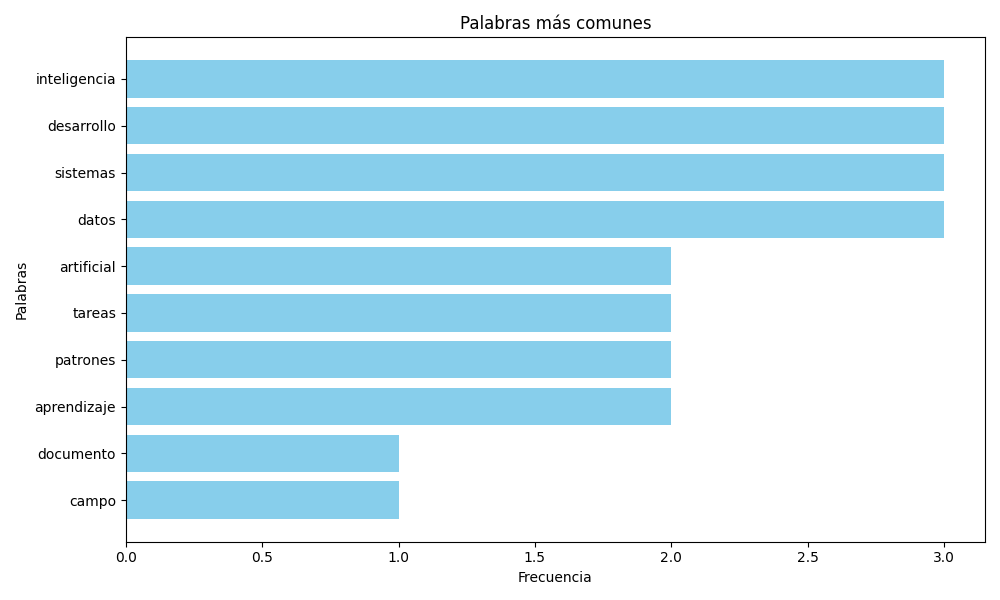
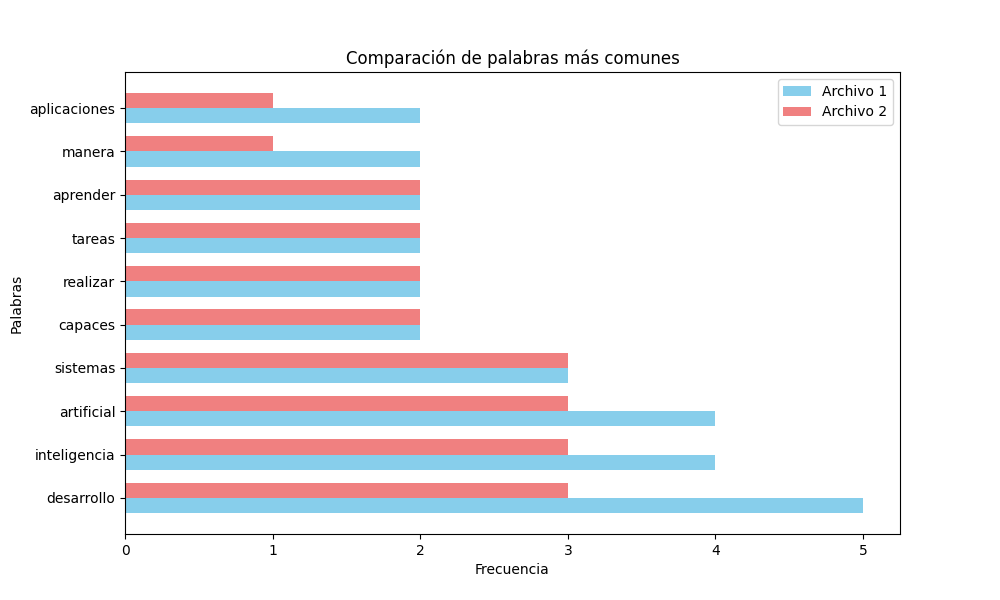
Se modifica grafica para que se vean los datos mas claros

diff --git a/templates/results.html b/templates/results.html
@@ -9,7 +9,7 @@
 </head>
 <body>
     <div class="container">
-        <h1 class="text-center my-4">Resultados del Análisis</h1>
+        <h1 class="text-center my-4">Resultados del Análisis de plagio de archivos</h1>
         <div class="row">
             <div class="col-md-6">
                 <div class="card">

diff --git a/app.py b/app.py
@@ -8,19 +8,16 @@ from collections import Counter
 from flask import Flask, request, render_template, redirect, url_for
 import matplotlib.pyplot as plt
 import matplotlib
-matplotlib.use('Agg') #Se agrega debido a error OSError: [WinError 10038],Una solución común es establecer un backend que no dependa de una interfaz de usuario. Puedes hacer esto configurando matplotlib para usar un backend que no requiera una interfaz de usuario, como el backend Agg.
-
+matplotlib.use('Agg')
 
 app = Flask(__name__)
 
-# Configurar la carpeta de static
 STATIC_FOLDER = 'static'
 if not os.path.exists(STATIC_FOLDER):
     os.makedirs(STATIC_FOLDER)
 
 app.config['STATIC_FOLDER'] = STATIC_FOLDER 
 
-# Función para leer texto de un archivo PDF
 def read_pdf(file_path):
     with open(file_path, 'rb') as file:
         reader = PyPDF2.PdfReader(file)
@@ -29,20 +26,17 @@ def read_pdf(file_path):
             text += page.extract_text()
     return text
 
-# Función para limpiar y tokenizar texto
 def clean_and_tokenize(text):
-    text = re.sub(r'\s+', ' ', text)  # Eliminar espacios en blanco extra
-    text = re.sub(r'[^a-zA-ZáéíóúÁÉÍÓÚñÑ ]', '', text)  # Eliminar caracteres no alfabéticos
+    text = re.sub(r'\s+', ' ', text)
+    text = re.sub(r'[^a-zA-ZáéíóúÁÉÍÓÚñÑ ]', '', text)
     tokens = nltk.word_tokenize(text.lower())
     return tokens
 
-# Función para calcular la riqueza léxica
 def lexical_richness(tokens):
     unique_tokens = set(tokens)
     richness = len(unique_tokens) / len(tokens)
-    return round(richness, 2)  # Limitar a 2 números decimales
+    return round(richness, 2)
 
-# Función para calcular la similitud basada en n-gramas
 def calculate_similarity(text1, text2, n=3):
     ngrams1 = list(ngrams(text1, n))
     ngrams2 = list(ngrams(text2, n))
@@ -53,33 +47,34 @@ def calculate_similarity(text1, text2, n=3):
     total = sum((counter1 | counter2).values())
     
     similarity = intersection / total if total != 0 else 0
-    return round(similarity * 100, 2)  # Regresar como porcentaje y limitar a 2 números decimales
+    return round(similarity * 100, 2)
 
-# Función para generar la gráfica de palabras más comunes
-def generate_word_frequency_chart(tokens, num_words=10):
-    # Filtrar palabras comunes y stopwords
+def generate_word_frequency_chart(tokens1, tokens2, color1='skyblue', color2='lightcoral', num_words=10):
     stop_words = set(stopwords.words('spanish'))
-    filtered_words = [word for word in tokens if word not in stop_words]
+    filtered_words1 = [word for word in tokens1 if word not in stop_words]
+    filtered_words2 = [word for word in tokens2 if word not in stop_words]
     
-    # Calcular frecuencia de palabras
-    word_freq = Counter(filtered_words)
+    word_freq1 = Counter(filtered_words1)
+    word_freq2 = Counter(filtered_words2)
     
-    # Filtrar palabras con menos de 4 caracteres
-    filtered_word_freq = {word: freq for word, freq in word_freq.items() if len(word) > 3}
+    filtered_word_freq1 = {word: freq for word, freq in word_freq1.items() if len(word) > 3}
+    filtered_word_freq2 = {word: freq for word, freq in word_freq2.items() if len(word) > 3}
     
-    # Seleccionar las 'num_words' palabras más comunes
-    top_words = dict(sorted(filtered_word_freq.items(), key=lambda item: item[1], reverse=True)[:num_words])
+    top_words1 = dict(sorted(filtered_word_freq1.items(), key=lambda item: item[1], reverse=True)[:num_words])
+    top_words2 = dict(sorted(filtered_word_freq2.items(), key=lambda item: item[1], reverse=True)[:num_words])
     
-    # Crear la gráfica de barras
-    plt.figure(figsize=(10, 6))
-    plt.barh(list(top_words.keys()), list(top_words.values()), color='skyblue')
-    plt.xlabel('Frecuencia')
-    plt.ylabel('Palabras')
-    plt.title('Palabras más comunes')
-    plt.gca().invert_yaxis()  # Invertir el eje y para mostrar las palabras de forma vertical
-    plt.tight_layout()
+    fig, ax = plt.subplots(figsize=(10, 6))
+    bar_width = 0.35
+    index = range(num_words)
+    ax.barh(index, list(top_words1.values()), bar_width, color=color1, label='Archivo 1')
+    ax.barh([i + bar_width for i in index], list(top_words2.values()), bar_width, color=color2, label='Archivo 2')
+    ax.set_ylabel('Palabras')
+    ax.set_xlabel('Frecuencia')
+    ax.set_title('Comparación de palabras más comunes')
+    ax.set_yticks([i + bar_width / 2 for i in index])
+    ax.set_yticklabels(list(top_words1.keys()))
+    ax.legend()
 
-    # Guardar la gráfica como imagen en la carpeta static
     graph_path = os.path.join(app.config['STATIC_FOLDER'], 'word_frequency_chart.png')
     plt.savefig(graph_path)
 
@@ -92,31 +87,25 @@ def upload_files():
         file2 = request.files['file2']
         
         if file1 and file2:
-            # Guardar archivos temporalmente
             file1_path = os.path.join(app.config['STATIC_FOLDER'], file1.filename)
             file2_path = os.path.join(app.config['STATIC_FOLDER'], file2.filename)
             file1.save(file1_path)
             file2.save(file2_path)
             
             try:
-                # Leer y procesar textos
                 text1 = read_pdf(file1_path)
                 text2 = read_pdf(file2_path)
                 tokens1 = clean_and_tokenize(text1)
                 tokens2 = clean_and_tokenize(text2)
                 
-                # Calcular riqueza léxica
                 richness1 = lexical_richness(tokens1)
                 richness2 = lexical_richness(tokens2)
                 
-                # Calcular similitud de plagio
                 similarity = calculate_similarity(tokens1, tokens2)
                 
-                # Generar gráfica de palabras más comunes
-                graph_path = generate_word_frequency_chart(tokens1)
+                graph_path = generate_word_frequency_chart(tokens1, tokens2)
                 
             finally:
-                # Asegurarse de que los archivos se eliminen después de procesar
                 try:
                     os.remove(file1_path)
                 except FileNotFoundError:
@@ -131,7 +120,6 @@ def upload_files():
 
 @app.route('/back', methods=['GET', 'POST'])
 def back():
-    # Eliminar la imagen generada al presionar el botón "Volver"
     graph_path = os.path.join(app.config['STATIC_FOLDER'], 'word_frequency_chart.png')
     if os.path.exists(graph_path):
         os.remove(graph_path)
